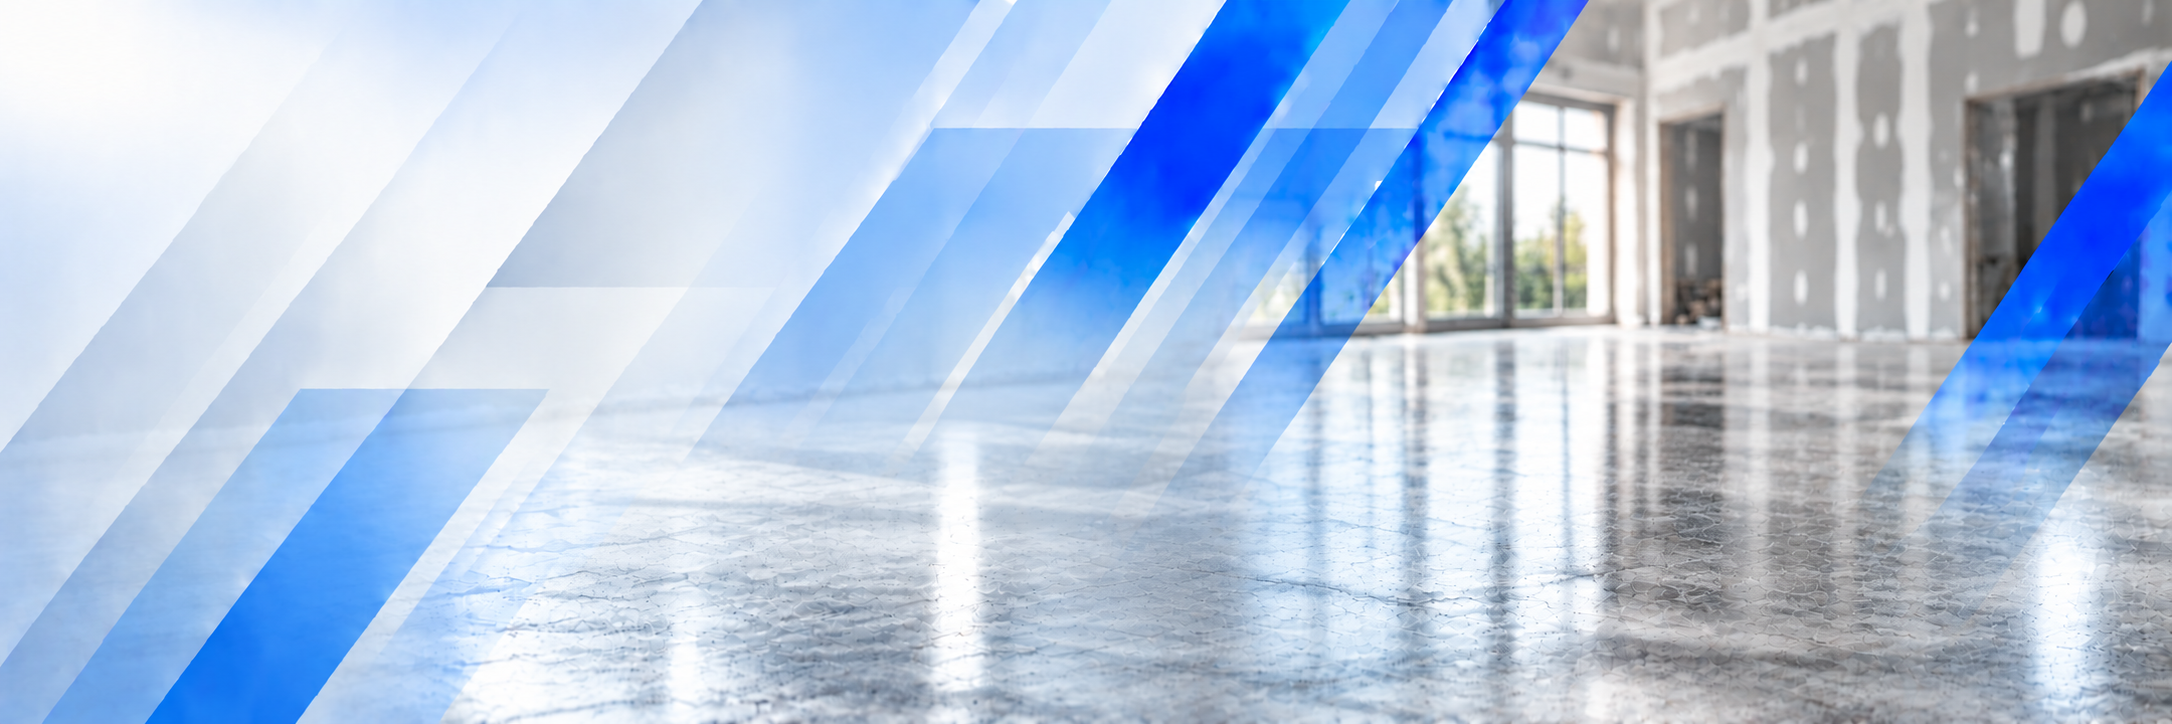
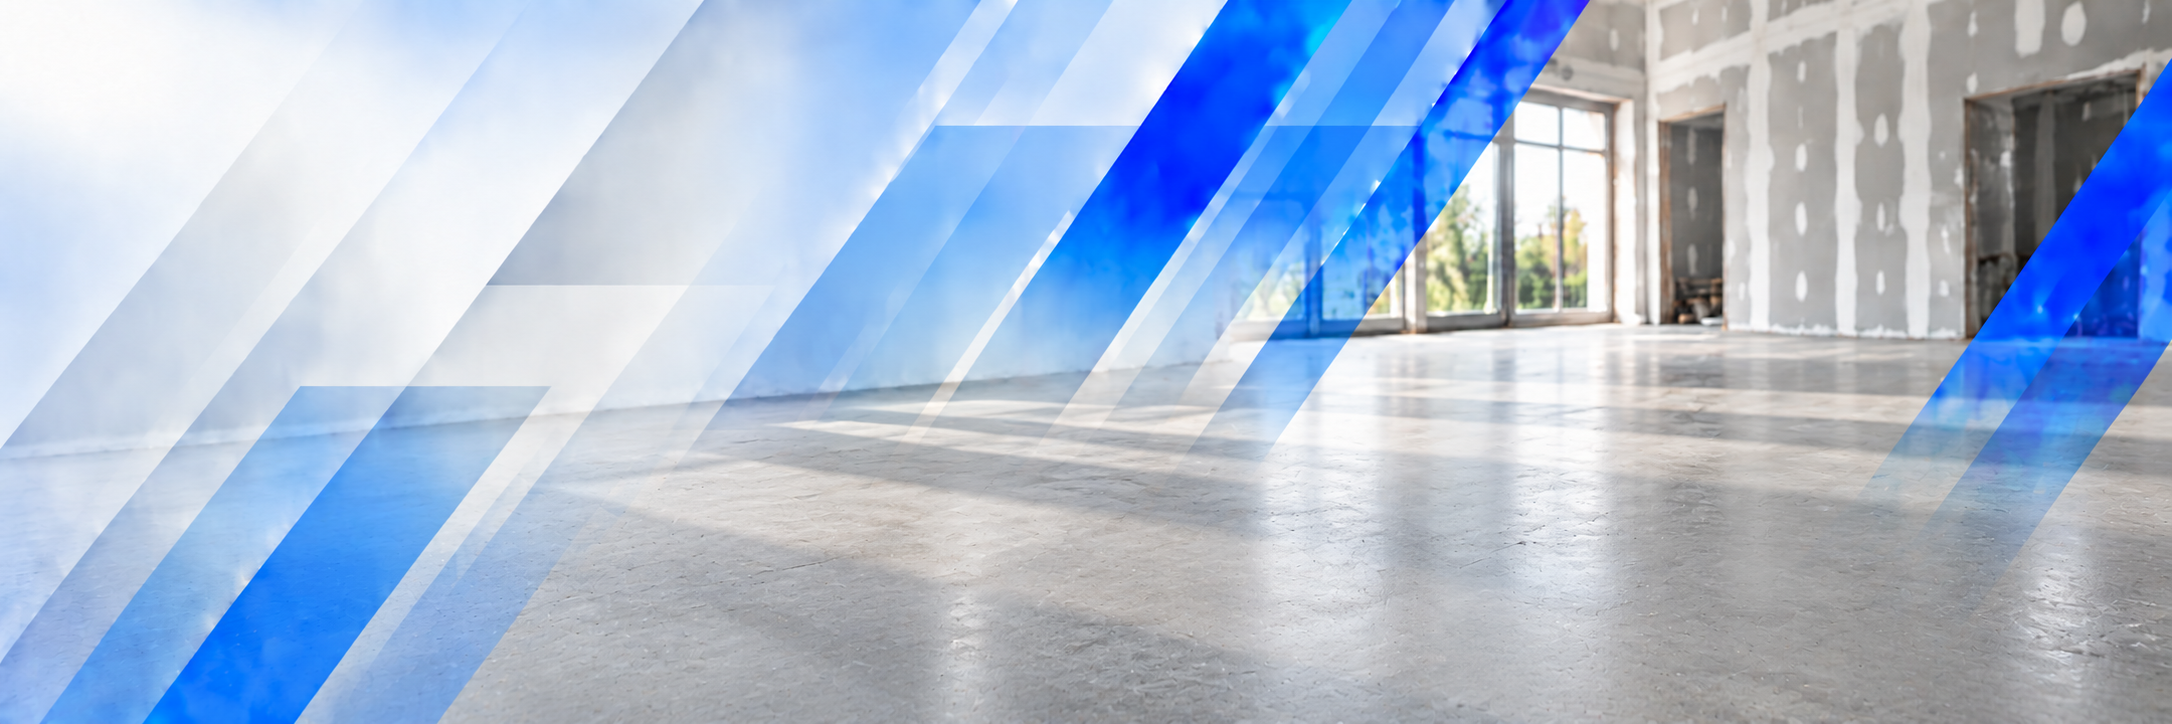
UPDATE - CHECKPOINT

diff --git a/frontend/src/utils/categoryThumbnailImages.js b/frontend/src/utils/categoryThumbnailImages.js
@@ -1,10 +1,5 @@
 const CATEGORY_THUMBNAIL_ROOT = '/wp-content/uploads/2026/categories/thumbnails';
 
-const CATEGORY_THUMBNAIL_URL_BY_SLUG = {
-  'corner-finishers': 'https://drywalltoolbox.com/wp/wp-content/uploads/2026/categories/thumbnails/corner-finishers.webp',
-  'powered-compound-applicators': 'https://drywalltoolbox.com/wp/wp-content/uploads/2026/media/tapetech_14tt_01.webp',
-};
-
 // Existing media filenames are retained as assets. Canonical taxonomy slugs
 // resolve to the closest current image without making media filenames a
 // classification authority.
@@ -42,8 +37,17 @@ const CATEGORY_THUMBNAIL_SLUGS = new Set([
 ]);
 
 const CATEGORY_THUMBNAIL_FILE_BY_SLUG = {
+  // Curated replacement art retains its supplied filename and intrinsic
+  // dimensions. This map keeps taxonomy identity (the slug) separate from
+  // media identity, including the supplied `corner-finshers` filename.
+  'automatic-tapers': 'automatic-tapers',
+  'powered-compound-applicators': 'powered-compound-applicator',
+  'compound-applicators': 'compound-applicators',
+  'compound-tubes': 'compound-tube',
+  'corner-finishers': 'corner-finshers',
+  'finishing-boxes': 'finishing-box',
+  'flat-boxes': 'finishing-box',
   'corner-applicators-angle-boxes': 'corner-boxes',
-  'compound-tubes': 'compound-tubes',
   'applicator-heads': 'compound-applicators',
   'corner-flushers': 'corner-flushers',
   'corner-rollers': 'corner-rollers',
@@ -77,12 +81,9 @@ export function resolveCategoryThumbnail(category) {
     .toLowerCase()
     .replace(/_/g, '-');
 
-  if (CATEGORY_THUMBNAIL_URL_BY_SLUG[slug]) {
-    return CATEGORY_THUMBNAIL_URL_BY_SLUG[slug];
-  }
-
-  const thumbnailSlug = CATEGORY_THUMBNAIL_FILE_BY_SLUG[slug] || slug;
-  if (CATEGORY_THUMBNAIL_SLUGS.has(thumbnailSlug)) {
+  const configuredThumbnail = CATEGORY_THUMBNAIL_FILE_BY_SLUG[slug];
+  const thumbnailSlug = configuredThumbnail || slug;
+  if (configuredThumbnail || CATEGORY_THUMBNAIL_SLUGS.has(thumbnailSlug)) {
     return `${CATEGORY_THUMBNAIL_ROOT}/${thumbnailSlug}.webp`;
   }
 
